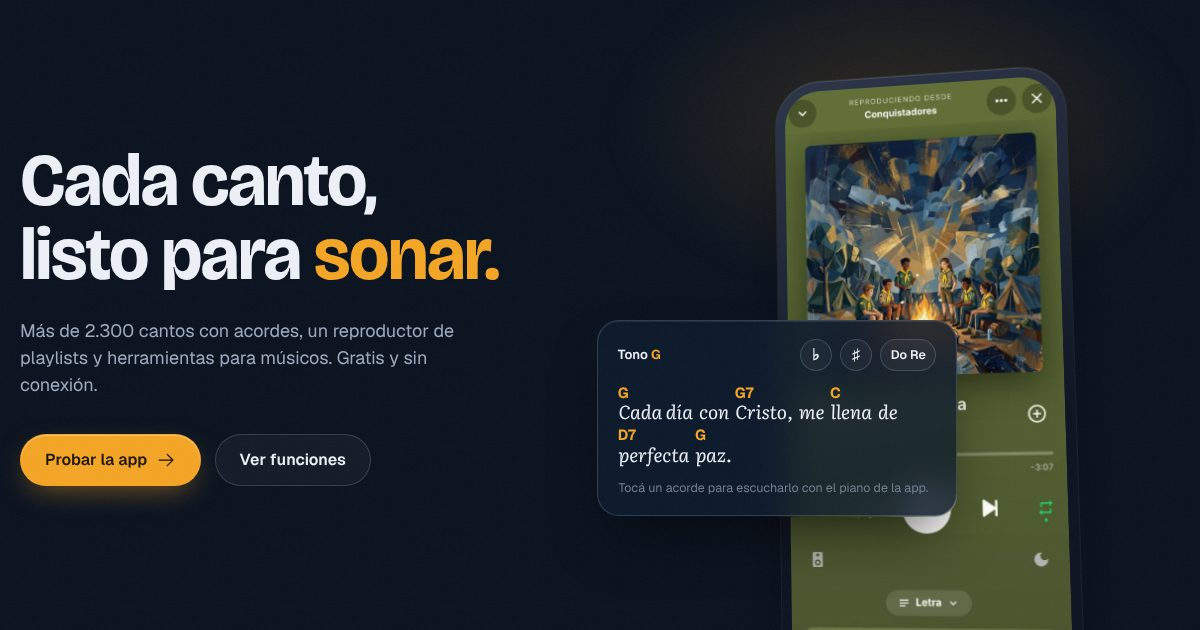
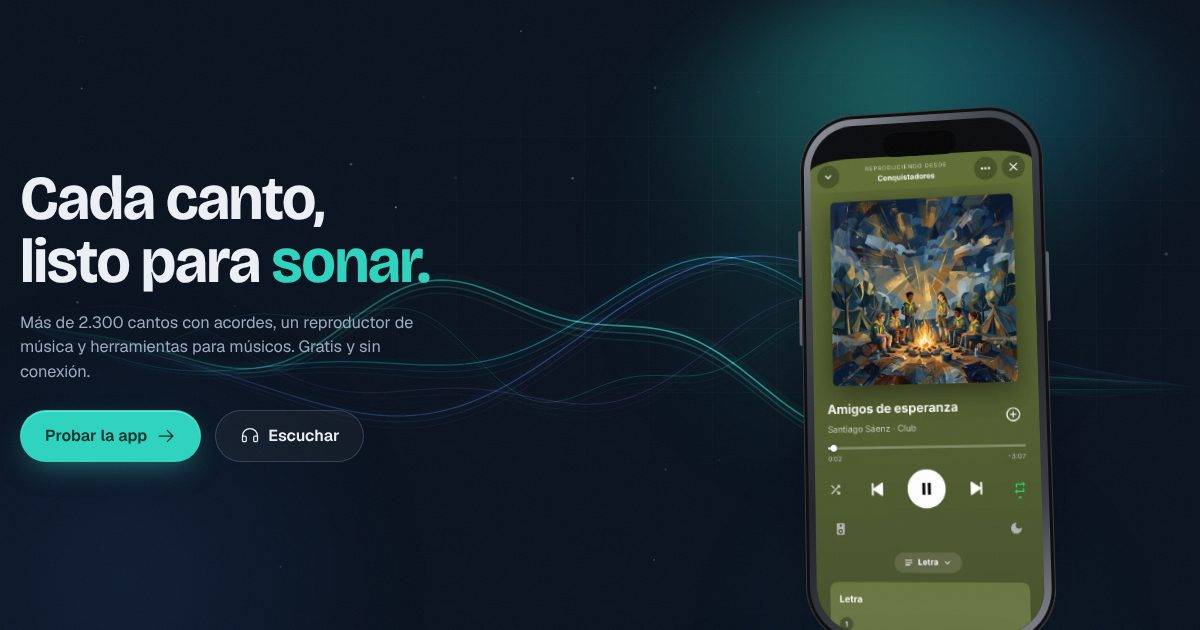
Promo v9: color de acento turquesa (#12)
Claude-Session: https://claude.ai/code/session_01Wjox9nrADiZpN5uYsimyab

diff --git a/promo/promo.css b/promo/promo.css
@@ -6,7 +6,7 @@
   --bg:#09111e;--bg-2:#0e1a2c;--bg-3:#14243b;
   --line:rgb(190 210 240 / .11);--line-2:rgb(190 210 240 / .2);
   --text:#edf1f7;--muted:#9eabbf;--faint:#6f7e95;
-  --accent:#f5a524;--accent-ink:#1c1303;--accent-soft:rgb(245 165 36 / .14);
+  --accent:#2dd4bf;--accent-ink:#032b27;--accent-soft:rgb(45 212 191 / .14);
   --r-card:22px;--r-phone:46px;
   --ease-out:cubic-bezier(.23,1,.32,1);--ease-io:cubic-bezier(.77,0,.175,1);
   --display:"Bricolage",ui-sans-serif,system-ui,sans-serif;
@@ -36,10 +36,10 @@ body::after{content:"";position:fixed;inset:0;pointer-events:none;z-index:50;opa
 .btn{display:inline-flex;align-items:center;gap:.55rem;height:3.25rem;padding:0 1.5rem;border-radius:999px;font:600 1rem/1 var(--body);text-decoration:none;white-space:nowrap;border:1px solid transparent;cursor:pointer;
   transition:transform 160ms var(--ease-out),background-color 200ms ease,border-color 200ms ease,box-shadow 200ms ease}
 .btn:active{transform:scale(.97)}
-.btn-primary{background:var(--accent);color:var(--accent-ink);box-shadow:0 10px 30px -10px rgb(245 165 36 / .55),inset 0 1px 0 rgb(255 255 255 / .35)}
+.btn-primary{background:var(--accent);color:var(--accent-ink);box-shadow:0 10px 30px -10px rgb(45 212 191 / .55),inset 0 1px 0 rgb(255 255 255 / .35)}
 .btn-ghost{background:rgb(255 255 255 / .04);border-color:var(--line-2);color:var(--text)}
 @media (hover:hover) and (pointer:fine){
-  .btn-primary:hover{background:#ffb43d;box-shadow:0 14px 36px -10px rgb(245 165 36 / .7),inset 0 1px 0 rgb(255 255 255 / .35)}
+  .btn-primary:hover{background:#5eead4;box-shadow:0 14px 36px -10px rgb(45 212 191 / .7),inset 0 1px 0 rgb(255 255 255 / .35)}
   .btn-ghost:hover{border-color:rgb(190 210 240 / .4);background:rgb(255 255 255 / .07)}
   .btn .ico-move{transition:transform 200ms var(--ease-out)}
   .btn:hover .ico-move{transform:translateX(3px)}
@@ -90,7 +90,7 @@ body::after{content:"";position:fixed;inset:0;pointer-events:none;z-index:50;opa
 .tp-key b{color:var(--accent);font-weight:700;display:inline-block;min-width:2.6ch;transition:filter 220ms ease,opacity 220ms ease}
 .tp-btn{width:2rem;height:2rem;border-radius:999px;border:1px solid var(--line-2);background:rgb(255 255 255 / .04);color:var(--text);font:600 1rem/1 var(--body);cursor:pointer;transition:transform 140ms var(--ease-out),background-color 200ms ease}
 .tp-btn:active{transform:scale(.92)}
-.tp-btn[aria-pressed=true]{background:var(--accent-soft);border-color:rgb(245 165 36 / .5);color:var(--accent)}
+.tp-btn[aria-pressed=true]{background:var(--accent-soft);border-color:rgb(45 212 191 / .5);color:var(--accent)}
 .tp-line{font:italic 400 1.18rem/1.15 var(--lyric);color:var(--text);display:flex;flex-wrap:wrap;column-gap:.32em;row-gap:.2rem}
 .tp-seg{display:inline-flex;flex-direction:column}
 .tp-ch{font:700 .92rem/1.2 var(--body);font-style:normal;color:var(--accent);height:1.2em;background:none;border:0;padding:0;text-align:left;cursor:pointer;transition:filter 220ms ease,opacity 220ms ease,transform 220ms var(--ease-out)}
@@ -127,7 +127,7 @@ section{position:relative}
 .cell{position:relative;border-radius:var(--r-card);background:var(--bg-2);border:1px solid var(--line);padding:1.75rem;overflow:hidden;isolation:isolate}
 .cell h3{font:650 1.45rem/1.1 var(--display);font-stretch:92%;letter-spacing:-.02em;margin:0 0 .5rem}
 .cell p{margin:0;color:var(--muted);font-size:.98rem;max-width:40ch}
-.c-chords{grid-column:span 4;background:radial-gradient(120% 140% at 100% 0%,rgb(245 165 36 / .2),transparent 55%),var(--bg-2)}
+.c-chords{grid-column:span 4;background:radial-gradient(120% 140% at 100% 0%,rgb(45 212 191 / .2),transparent 55%),var(--bg-2)}
 .c-tuner{grid-column:span 2;grid-row:span 2;padding-bottom:0;display:flex;flex-direction:column}
 .c-tuner .shot{margin:1.5rem auto 0;width:86%;border-radius:28px 28px 0 0;overflow:hidden;border:1px solid var(--line-2);border-bottom:0;flex:1}
 .c-tuner .shot img{width:100%;height:100%;object-fit:cover;object-position:top}
@@ -140,7 +140,7 @@ section{position:relative}
 .chip{height:5.25rem;padding:0 .5rem;border-radius:18px;border:1px solid var(--line-2);background:rgb(255 255 255 / .04);color:var(--text);font:700 1.6rem/1 var(--display);cursor:pointer;
   transition:transform 140ms var(--ease-out),background-color 200ms ease,border-color 200ms ease,color 200ms ease}
 .chip:active,.chip.hit{transform:scale(.94);background:var(--accent);border-color:var(--accent);color:var(--accent-ink)}
-@media (hover:hover) and (pointer:fine){.chip:hover{border-color:rgb(245 165 36 / .6)}}
+@media (hover:hover) and (pointer:fine){.chip:hover{border-color:rgb(45 212 191 / .6)}}
 .hint{margin-top:1rem;font-size:.82rem;color:var(--faint);display:flex;align-items:center;gap:.4rem}
 .tags{display:flex;flex-wrap:wrap;gap:.45rem;margin-top:1.25rem}
 .tag{font-size:.84rem;padding:.4rem .75rem;border-radius:999px;background:rgb(255 255 255 / .05);border:1px solid var(--line);color:var(--text)}
@@ -223,7 +223,7 @@ footer a{color:var(--muted);text-decoration:none}footer a:hover{color:var(--text
 .finder{background:var(--bg-2);border:1px solid var(--line);border-radius:var(--r-card);padding:1.5rem}
 .finder-label{display:block;font-size:.85rem;font-weight:600;color:var(--muted);margin-bottom:.6rem}
 .finder-box{display:flex;align-items:center;gap:.75rem;height:3.6rem;padding:0 1rem;border-radius:16px;background:var(--bg);border:1px solid var(--line-2);transition:border-color 200ms ease,box-shadow 200ms ease}
-.finder-box:focus-within{border-color:rgb(245 165 36 / .7);box-shadow:0 0 0 4px rgb(245 165 36 / .12)}
+.finder-box:focus-within{border-color:rgb(45 212 191 / .7);box-shadow:0 0 0 4px rgb(45 212 191 / .12)}
 .finder-box .ico{color:var(--muted)}
 .finder-box input{flex:1;min-width:0;height:100%;background:none;border:0;outline:0;color:var(--text);font:500 1.1rem/1 var(--body);caret-color:var(--accent)}
 .finder-box input::placeholder{color:var(--faint)}
@@ -232,12 +232,12 @@ footer a{color:var(--muted);text-decoration:none}footer a:hover{color:var(--text
 .finder-chips{display:flex;flex-wrap:wrap;gap:.45rem;margin-top:1rem}
 .finder-chips .tag{cursor:pointer;font:500 .84rem/1 var(--body);transition:border-color 200ms ease,color 200ms ease,transform 140ms var(--ease-out)}
 .finder-chips .tag:active{transform:scale(.96)}
-@media (hover:hover) and (pointer:fine){.finder-chips .tag:hover{border-color:rgb(245 165 36 / .5);color:var(--accent)}}
+@media (hover:hover) and (pointer:fine){.finder-chips .tag:hover{border-color:rgb(45 212 191 / .5);color:var(--accent)}}
 .finder-status{margin:1.1rem 0 .4rem;font-size:.85rem;color:var(--faint);min-height:1.3em;font-variant-numeric:tabular-nums}
 .finder-res{list-style:none;margin:0;padding:0;display:grid;gap:.5rem}
 .res{display:block;padding:.95rem 1.1rem;border-radius:16px;background:rgb(255 255 255 / .025);border:1px solid var(--line);text-decoration:none;transition:border-color 200ms ease,background-color 200ms ease,transform 140ms var(--ease-out)}
 .res:active{transform:scale(.99)}
-@media (hover:hover) and (pointer:fine){.res:hover{border-color:rgb(245 165 36 / .45);background:rgb(245 165 36 / .05)}}
+@media (hover:hover) and (pointer:fine){.res:hover{border-color:rgb(45 212 191 / .45);background:rgb(45 212 191 / .05)}}
 .res-t{font-weight:600;display:flex;justify-content:space-between;gap:1rem;align-items:baseline}
 .res-t mark{background:none;color:var(--accent)}
 .res-meta{font-size:.8rem;color:var(--muted);white-space:nowrap;font-variant-numeric:tabular-nums}
@@ -289,7 +289,7 @@ body.has-ck .mcta{display:none}
 .trk b{display:block;font-weight:600;font-size:.98rem;white-space:nowrap;overflow:hidden;text-overflow:ellipsis}
 .trk small{color:var(--muted);font-size:.84rem}
 .trk .dur{color:var(--faint);font-size:.84rem;font-variant-numeric:tabular-nums;display:flex;align-items:center;gap:.5rem}
-.trk[aria-current=true]{background:var(--accent-soft);border-color:rgb(245 165 36 / .3)}
+.trk[aria-current=true]{background:var(--accent-soft);border-color:rgb(45 212 191 / .3)}
 .trk[aria-current=true] b{color:var(--accent)}
 .trk .eq{display:none;margin:0}
 .playing .trk[aria-current=true] .eq{display:inline-flex}
@@ -377,7 +377,7 @@ body.has-ck .mcta{display:none}
 .pscreen-cloth img{width:100%;border:clamp(3px,.5vw,6px) solid #111;opacity:0;filter:brightness(1.6) saturate(.6);transition:opacity 900ms ease 1.5s,filter 1.2s ease 1.5s}
 .pscreen-bar{display:none}
 .beam{position:absolute;left:5%;right:5%;top:6%;bottom:13%;clip-path:polygon(4% 0,96% 0,52% 100%,48% 100%);
-  background:linear-gradient(0deg,rgb(255 244 220 / .42),rgb(255 244 220 / .05) 85%);filter:blur(3px);mix-blend-mode:screen;opacity:0;transition:opacity 900ms ease 1.3s;pointer-events:none}
+  background:linear-gradient(0deg,rgb(225 250 246 / .42),rgb(225 250 246 / .05) 85%);filter:blur(3px);mix-blend-mode:screen;opacity:0;transition:opacity 900ms ease 1.3s;pointer-events:none}
 .projector{position:absolute;left:50%;bottom:3%;width:clamp(150px,20vw,230px);aspect-ratio:3.2/1;transform:translateX(-50%);border-radius:16px;background:linear-gradient(180deg,#f2f3f5,#c4c8cf);box-shadow:0 22px 30px -14px rgb(0 0 0 / .8),inset 0 -4px 0 rgb(0 0 0 / .12)}
 .projector::after{content:"";position:absolute;left:12%;right:12%;bottom:-8%;height:10%;border-radius:0 0 8px 8px;background:#9ea3ab}
 .p-lens{position:absolute;left:50%;top:50%;width:34%;aspect-ratio:1;transform:translate(-50%,-50%);border-radius:50%;background:radial-gradient(circle at 40% 35%,#9ab4d6,#1b2533 45%,#05070a 70%);box-shadow:0 0 0 5px #8b9099,0 0 0 7px #d8dbe0}
@@ -407,7 +407,7 @@ body.has-ck .mcta{display:none}
 .r-l,.r-r{top:50%;width:22px;height:26px;margin-top:-13px}.r-l{left:14px}.r-r{right:14px}
 .r-ok{left:50%;top:50%;width:40px!important;height:40px;margin:-20px 0 0 -20px;border-radius:50%!important}
 .r-dn{animation-delay:0s}.r-r{animation-delay:1s}.r-ok{animation-delay:2s}.r-up{animation-delay:3s}.r-l{animation-delay:99s}
-@keyframes rkey{0%{background:var(--accent);box-shadow:0 0 12px rgb(245 165 36 / .6)}25%,100%{background:#2a2f38;box-shadow:none}}
+@keyframes rkey{0%{background:var(--accent);box-shadow:0 0 12px rgb(45 212 191 / .6)}25%,100%{background:#2a2f38;box-shadow:none}}
 
 /* Teleprónter + idiomas */
 .duo2{display:grid;grid-template-columns:1fr 1fr;gap:1rem;margin-top:clamp(5rem,10vw,8rem)}
@@ -416,7 +416,7 @@ body.has-ck .mcta{display:none}
 .tele-roll p{margin:0 0 .5rem;font:600 1.35rem/1.35 var(--body);color:var(--text)}
 .tele-roll p.gap{height:.8rem}
 @keyframes roll{to{transform:translateY(-50%)}}
-.tele-band{position:absolute;left:0;right:0;top:50%;height:2.6rem;transform:translateY(-50%);border-block:1px solid rgb(245 165 36 / .35);background:rgb(245 165 36 / .06)}
+.tele-band{position:absolute;left:0;right:0;top:50%;height:2.6rem;transform:translateY(-50%);border-block:1px solid rgb(45 212 191 / .35);background:rgb(45 212 191 / .06)}
 .tele:hover .tele-roll{animation-play-state:paused}
 .lang-show{margin-top:1.75rem;min-height:8.5rem;display:flex;flex-direction:column;gap:.7rem}
 .lang-name{align-self:flex-start;font:600 .8rem/1 var(--body);padding:.4rem .7rem;border-radius:999px;background:var(--accent-soft);color:var(--accent);transition:opacity 250ms ease,filter 250ms ease}
@@ -435,7 +435,7 @@ body.has-ck .mcta{display:none}
 .link strong{color:var(--text);font-size:1rem}
 .link .go{color:var(--faint);transition:transform 200ms var(--ease-out),color 200ms ease}
 .link:active{transform:scale(.98)}
-@media (hover:hover) and (pointer:fine){.link:hover{border-color:rgb(245 165 36 / .45)}.link:hover .go{transform:translateX(3px);color:var(--accent)}}
+@media (hover:hover) and (pointer:fine){.link:hover{border-color:rgb(45 212 191 / .45)}.link:hover .go{transform:translateX(3px);color:var(--accent)}}
 .support{display:flex;align-items:center;justify-content:space-between;gap:1.25rem;flex-wrap:wrap;margin-top:1rem;padding:1.25rem 1.25rem 1.25rem 1.5rem;border-radius:var(--r-card);border:1px dashed var(--line-2)}
 .support p{margin:0;display:flex;gap:.6rem;align-items:center;color:var(--muted)}
 .support p .ico{color:var(--accent)}
@@ -493,12 +493,12 @@ footer .wrap{align-items:center}
 .tabs button{position:relative;z-index:1;flex:none;display:inline-flex;align-items:center;gap:.5rem;height:2.75rem;padding:0 1.1rem;border:0;border-radius:999px;background:none;color:var(--muted);font:600 .95rem/1 var(--body);cursor:pointer;white-space:nowrap;overflow:hidden;transition:color 250ms ease}
 .tabs button .ico{width:1.1rem;height:1.1rem}
 .tabs button[aria-selected=true]{color:var(--accent-ink)}
-.tabs button::after{content:"";position:absolute;left:0;bottom:0;height:3px;width:100%;transform-origin:left;transform:scaleX(0);background:rgb(28 19 3 / .35);border-radius:3px}
+.tabs button::after{content:"";position:absolute;left:0;bottom:0;height:3px;width:100%;transform-origin:left;transform:scaleX(0);background:rgb(3 43 39 / .35);border-radius:3px}
 .tabset.auto .tabs button[aria-selected=true]::after{animation:tabprog var(--dur,6s) linear forwards}
 .tabset.paused .tabs button::after{animation-play-state:paused!important}
 @keyframes tabprog{to{transform:scaleX(1)}}
 @media (hover:hover) and (pointer:fine){.tabs button:not([aria-selected=true]):hover{color:var(--text)}}
-.tabs-ind{position:absolute;z-index:0;top:.35rem;left:0;height:2.75rem;border-radius:999px;background:var(--accent);box-shadow:0 8px 24px -10px rgb(245 165 36 / .7);transition:transform 450ms var(--ease-out),width 450ms var(--ease-out)}
+.tabs-ind{position:absolute;z-index:0;top:.35rem;left:0;height:2.75rem;border-radius:999px;background:var(--accent);box-shadow:0 8px 24px -10px rgb(45 212 191 / .7);transition:transform 450ms var(--ease-out),width 450ms var(--ease-out)}
 .panels{position:relative;margin-top:2rem;min-height:560px}
 .panel{animation:panelIn 600ms var(--ease-out) both}
 @keyframes panelIn{from{opacity:0;transform:translateY(12px);filter:blur(8px)}}
@@ -561,9 +561,9 @@ footer .wrap{align-items:center}
 /* Fondo en movimiento */
 .aurora{position:fixed;inset:0;z-index:-1;overflow:hidden;pointer-events:none}
 .aurora i{position:absolute;border-radius:50%;filter:blur(60px);opacity:.5;will-change:transform}
-.aurora i:nth-child(1){width:55vw;height:55vw;left:45%;top:-15%;background:radial-gradient(closest-side,rgb(245 165 36 / .32),transparent 70%);animation:drift1 34s ease-in-out infinite alternate}
+.aurora i:nth-child(1){width:55vw;height:55vw;left:45%;top:-15%;background:radial-gradient(closest-side,rgb(45 212 191 / .32),transparent 70%);animation:drift1 34s ease-in-out infinite alternate}
 .aurora i:nth-child(2){width:60vw;height:60vw;left:-20%;top:35%;background:radial-gradient(closest-side,rgb(56 120 220 / .28),transparent 70%);animation:drift2 42s ease-in-out infinite alternate}
-.aurora i:nth-child(3){width:45vw;height:45vw;left:55%;top:60%;background:radial-gradient(closest-side,rgb(236 110 60 / .2),transparent 70%);animation:drift3 38s ease-in-out infinite alternate}
+.aurora i:nth-child(3){width:45vw;height:45vw;left:55%;top:60%;background:radial-gradient(closest-side,rgb(56 189 248 / .2),transparent 70%);animation:drift3 38s ease-in-out infinite alternate}
 @keyframes drift1{to{transform:translate(-25vw,20vh) scale(1.2)}}
 @keyframes drift2{to{transform:translate(30vw,-18vh) scale(.85)}}
 @keyframes drift3{to{transform:translate(-20vw,-30vh) scale(1.25)}}
@@ -605,7 +605,7 @@ footer .wrap{align-items:center}
 .mgrid .cell{padding:1.5rem}
 .mgrid h3{font-size:1.25rem}
 .mgrid p{font-size:.92rem}
-.m-chords{grid-column:span 5;background:radial-gradient(120% 140% at 100% 0%,rgb(245 165 36 / .16),transparent 55%),var(--bg-2)}
+.m-chords{grid-column:span 5;background:radial-gradient(120% 140% at 100% 0%,rgb(45 212 191 / .16),transparent 55%),var(--bg-2)}
 .m-voc{grid-column:span 4}
 .m-tuner{grid-column:span 3;grid-row:span 2;display:flex;flex-direction:column}
 .m-inst{grid-column:span 4}
@@ -664,10 +664,10 @@ main{position:relative}
 #threadDraw path{stroke:url(#thg);stroke-width:1.4;stroke-dasharray:1;stroke-dashoffset:var(--tp,1)}
 #threadDraw path.glow{stroke-width:6;filter:url(#thblur);opacity:.55}
 #threadNodes circle{fill:var(--bg);stroke:rgb(190 210 240 / .25);stroke-width:1.5;transition:fill 400ms ease,stroke 400ms ease,r 400ms var(--ease-out)}
-#threadNodes circle.lit{fill:var(--accent);stroke:rgb(245 165 36 / .5);r:6}
+#threadNodes circle.lit{fill:var(--accent);stroke:rgb(45 212 191 / .5);r:6}
 #threadNodes circle.lit+circle{opacity:1}
 .thread-note{position:absolute;left:0;top:0;width:34px;height:34px;margin:-17px 0 0 -17px;border-radius:50%;display:grid;place-items:center;z-index:1;pointer-events:none;
-  background:radial-gradient(circle,rgb(245 165 36 / .95),rgb(245 165 36 / .65) 45%,transparent 70%);color:var(--accent-ink);box-shadow:0 0 30px 6px rgb(245 165 36 / .45);will-change:transform;opacity:0;transition:opacity 400ms ease}
+  background:radial-gradient(circle,rgb(45 212 191 / .95),rgb(45 212 191 / .65) 45%,transparent 70%);color:var(--accent-ink);box-shadow:0 0 30px 6px rgb(45 212 191 / .45);will-change:transform;opacity:0;transition:opacity 400ms ease}
 .thread-note.on{opacity:1}
 .thread-note .ico{width:16px;height:16px}
 section,.books{position:relative;z-index:1}
@@ -679,7 +679,7 @@ section,.books{position:relative;z-index:1}
   mask-image:radial-gradient(70% 60% at 70% 40%,#000,transparent 75%);animation:gridpan 30s linear infinite}
 @keyframes gridpan{to{background-position:64px 64px,64px 64px}}
 .stage::before{content:"";position:absolute;width:130%;aspect-ratio:1;border-radius:50%;z-index:-1;pointer-events:none;
-  background:conic-gradient(from 0deg,transparent 0 55%,rgb(245 165 36 / .5) 70%,rgb(255 122 69 / .35) 78%,transparent 90%);filter:blur(40px);opacity:.7;animation:spin 14s linear infinite}
+  background:conic-gradient(from 0deg,transparent 0 55%,rgb(45 212 191 / .5) 70%,rgb(34 211 238 / .35) 78%,transparent 90%);filter:blur(40px);opacity:.7;animation:spin 14s linear infinite}
 @keyframes spin{to{transform:rotate(1turn)}}
 .hero h1{background:none}
 
@@ -691,9 +691,9 @@ section,.books{position:relative;z-index:1}
 /* Tarjetas con foco de luz que sigue al puntero */
 .spot{position:relative;isolation:isolate}
 .spot::after{content:"";position:absolute;inset:0;border-radius:inherit;pointer-events:none;z-index:-1;opacity:0;transition:opacity 300ms ease;
-  background:radial-gradient(420px circle at var(--mx,50%) var(--my,50%),rgb(245 165 36 / .12),transparent 45%)}
+  background:radial-gradient(420px circle at var(--mx,50%) var(--my,50%),rgb(45 212 191 / .12),transparent 45%)}
 .spot::before{content:"";position:absolute;inset:-1px;border-radius:inherit;pointer-events:none;padding:1px;opacity:0;transition:opacity 300ms ease;
-  background:radial-gradient(260px circle at var(--mx,50%) var(--my,50%),rgb(245 165 36 / .7),transparent 60%);
+  background:radial-gradient(260px circle at var(--mx,50%) var(--my,50%),rgb(45 212 191 / .7),transparent 60%);
   -webkit-mask:linear-gradient(#000 0 0) content-box,linear-gradient(#000 0 0);-webkit-mask-composite:xor;mask-composite:exclude}
 @media (hover:hover) and (pointer:fine){.spot:hover::after,.spot:hover::before{opacity:1}}
 

diff --git a/promo/promo.js b/promo/promo.js
@@ -516,10 +516,10 @@
 
     /* Cintas de sonido: ondas que fluyen detrás de toda la página y se mueven con el scroll */
     const WAVES = [
-      { c: [245, 165, 36], a: .7, amp: .10, k: 1.6, sp: .00028, ph: 0, w: 1.6 },
-      { c: [255, 122, 69], a: .5, amp: .13, k: 1.1, sp: .00021, ph: 1.7, w: 1.2 },
+      { c: [45, 212, 191], a: .7, amp: .10, k: 1.6, sp: .00028, ph: 0, w: 1.6 },
+      { c: [34, 211, 238], a: .5, amp: .13, k: 1.1, sp: .00021, ph: 1.7, w: 1.2 },
       { c: [91, 140, 255], a: .48, amp: .16, k: .8, sp: .00017, ph: 3.1, w: 1.2 },
-      { c: [245, 165, 36], a: .22, amp: .07, k: 2.4, sp: .00036, ph: 4.4, w: 1 },
+      { c: [45, 212, 191], a: .22, amp: .07, k: 2.4, sp: .00036, ph: 4.4, w: 1 },
       { c: [160, 120, 255], a: .20, amp: .11, k: 1.35, sp: .00024, ph: 5.2, w: 1 }
     ];
     function drawWaves(t) {
@@ -565,7 +565,7 @@
         if (p.y < -20) { p.y = H + 20; p.x = Math.random() * W; } if (p.y > H + 20) { p.y = -20; p.x = Math.random() * W; }
         if (p.x < -20) p.x = W + 20; if (p.x > W + 20) p.x = -20;
         const tw = .6 + .4 * Math.sin(t / 900 + p.ph);
-        if (p.g) { ctx.fillStyle = 'rgba(245,165,36,' + (p.a * .35 * tw) + ')'; ctx.font = p.s * p.z + 'px serif'; ctx.fillText(p.g, p.x, p.y); }
+        if (p.g) { ctx.fillStyle = 'rgba(45,212,191,' + (p.a * .35 * tw) + ')'; ctx.font = p.s * p.z + 'px serif'; ctx.fillText(p.g, p.x, p.y); }
         else { ctx.fillStyle = 'rgba(220,230,255,' + (p.a * tw * p.z) + ')'; ctx.beginPath(); ctx.arc(p.x, p.y, p.r * p.z, 0, 6.283); ctx.fill(); }
       }
       requestAnimationFrame(loop);
